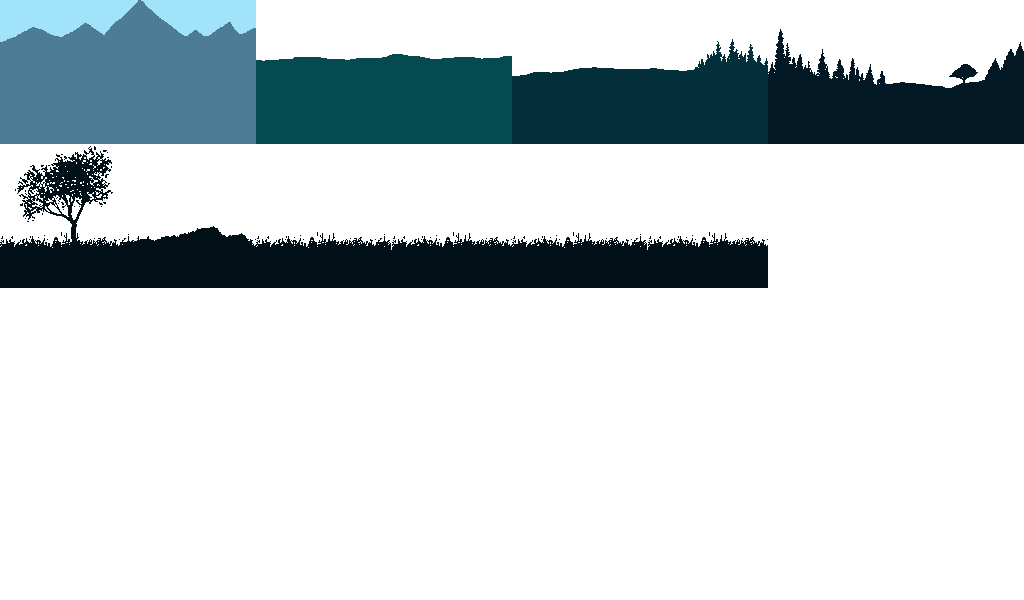
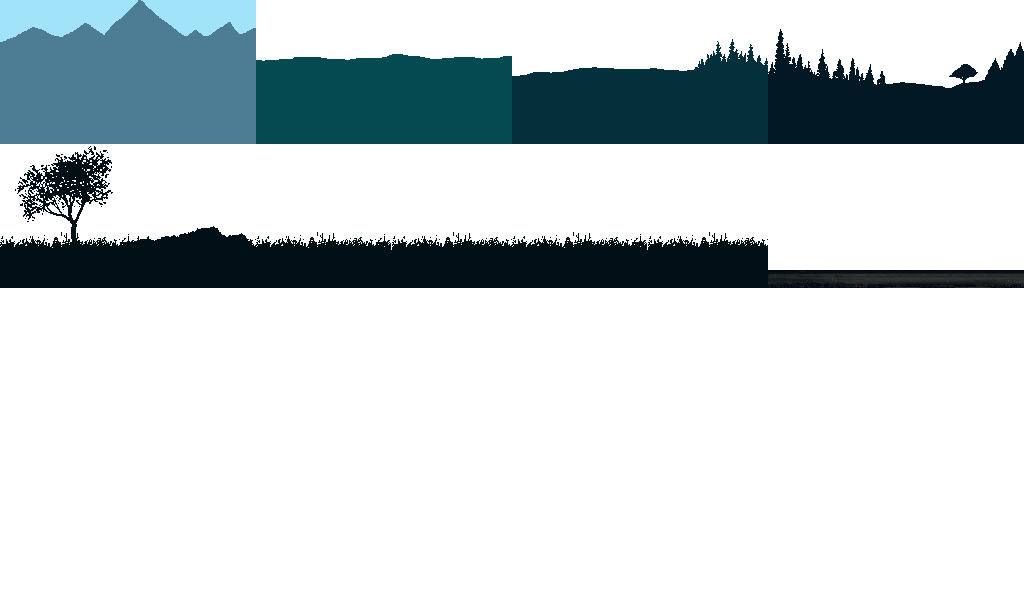
Добавлен пол

Changed region(s): [[0.75, 0.45, 1.0, 0.48]]

diff --git a/core/src/com/masi4/gameworld/Level0_Renderer.java b/core/src/com/masi4/gameworld/Level0_Renderer.java
@@ -21,7 +21,13 @@ public class Level0_Renderer extends GameRenderer
 
     // Assets
     private TextureRegion player_default; // Впоследствии использовать Animation
-    private TextureRegion level_BG1, level_BG2, level_BG3, level_BG4, level_grass;
+    private TextureRegion
+            level_BG1,
+            level_BG2,
+            level_BG3,
+            level_BG4,
+            level_grass,
+            level_floor;
 
     //
     // Методы
@@ -39,6 +45,8 @@ public class Level0_Renderer extends GameRenderer
         level_BG3 = AssetLoader.level_BG3;
         level_BG4 = AssetLoader.level_BG4;
         level_grass = AssetLoader.level_grass;
+        level_floor = AssetLoader.level_floor;
+
         player_default = AssetLoader.player_default;
     }
 
@@ -60,7 +68,13 @@ public class Level0_Renderer extends GameRenderer
         batcher.draw(level_BG2, 0, 0, SCREEN_WIDTH, SCREEN_HEIGHT);
         batcher.draw(level_BG3, 0, 0, SCREEN_WIDTH, SCREEN_HEIGHT);
         batcher.draw(level_BG4, 0, 0, SCREEN_WIDTH, SCREEN_HEIGHT);
-        batcher.draw(level_grass, 0, 0, level_0_grass_Width * 2, level_0_grass_Height * 2);
+        batcher.draw(level_grass, 0, 0, level_0_grass_Width * 2, level_0_grass_Height * 3);
+        batcher.draw(level_floor, 0, 0, level_0_grass_Width * 2, world.getLevelFloorHeight());
+
+        // возможно:
+        // персонаж доходит где то до половины и камера привязывается к персонажу
+        // уходит в начало и камера отвязывается
+        // то же самое с концом
         batcher.draw(player_default, player.getX(), player.getY(), player.getWidth(), player.getHeight());
 
         batcher.end();

diff --git a/core/src/com/masi4/gamehelpers/GameTextureRegions.java b/core/src/com/masi4/gamehelpers/GameTextureRegions.java
@@ -27,27 +27,32 @@ public class GameTextureRegions
     public static final int level_0_1_Width = 256;
     public static final int level_0_1_Height = 144;
 
-    public static final int level_0_2_X = 257;
+    public static final int level_0_2_X = 256;
     public static final int level_0_2_Y = 0;
     public static final int level_0_2_Width = 256;
     public static final int level_0_2_Height = 144;
 
-    public static final int level_0_3_X = 513;
+    public static final int level_0_3_X = 512;
     public static final int level_0_3_Y = 0;
     public static final int level_0_3_Width = 256;
     public static final int level_0_3_Height = 144;
 
-    public static final int level_0_4_X = 769;
+    public static final int level_0_4_X = 768;
     public static final int level_0_4_Y = 0;
     public static final int level_0_4_Width = 256;
     public static final int level_0_4_Height = 144;
 
     public static final int level_0_grass_X = 0;
-    public static final int level_0_grass_Y = 145;
+    public static final int level_0_grass_Y = 144;
     public static final int level_0_grass_Width = 768;
     public static final int level_0_grass_Height = 144;
 
-    // /controller - атлас с джойстиком
+    public static final int level_0_floor_X = 768;
+    public static final int level_0_floor_Y = 270;
+    public static final int level_0_floor_Width = 256;
+    public static final int level_0_floor_Height = 18;
+
+  // /controller - атлас с джойстиком
     public static final int controller_frame_Width = 242;
     public static final int controller_frame_Height = 242;
     public static final int controller_circle_Width = 70;

diff --git a/core/src/com/masi4/gameobjects/Player.java b/core/src/com/masi4/gameobjects/Player.java
@@ -17,6 +17,7 @@ public class Player
     private int height;
     private boolean isInJump;    // находится ли персонаж в прыжке
 
+
     // Публичные члены
 
     public Player(int width, int height)
@@ -65,8 +66,11 @@ public class Player
     {
         setVelocity(new Vector2(0, 0));
         position.y = y;
-        acceleration = new Vector2(0, 0);
-        if (isInJump) isInJump = false;
+        if (isInJump)
+        {
+            acceleration = new Vector2(0, 0);
+            isInJump = false;
+        }
     }
 
     public void handleUpCollision(float y)

diff --git a/core/src/com/masi4/gamehelpers/AssetLoader.java b/core/src/com/masi4/gamehelpers/AssetLoader.java
@@ -127,6 +127,8 @@ public class AssetLoader
                 level_BG4 = new TextureRegion(level_Texture, level_0_4_X, level_0_4_Y, level_0_4_Width, level_0_4_Height);
                 level_grass = new TextureRegion(level_Texture, level_0_grass_X, level_0_grass_Y,
                         level_0_grass_Width, level_0_grass_Height);
+                level_floor = new TextureRegion(level_Texture, level_0_floor_X, level_0_floor_Y,
+                        level_0_floor_Width, level_0_floor_Height);
 
             }
         }

diff --git a/core/src/com/masi4/gameworld/GameWorld.java b/core/src/com/masi4/gameworld/GameWorld.java
@@ -55,4 +55,5 @@ public class GameWorld
     }
 
     public int getLevelWidth() { return level.getWidth(); }
+    public int getLevelFloorHeight() { return level.getFloorHeight(); }
 }
